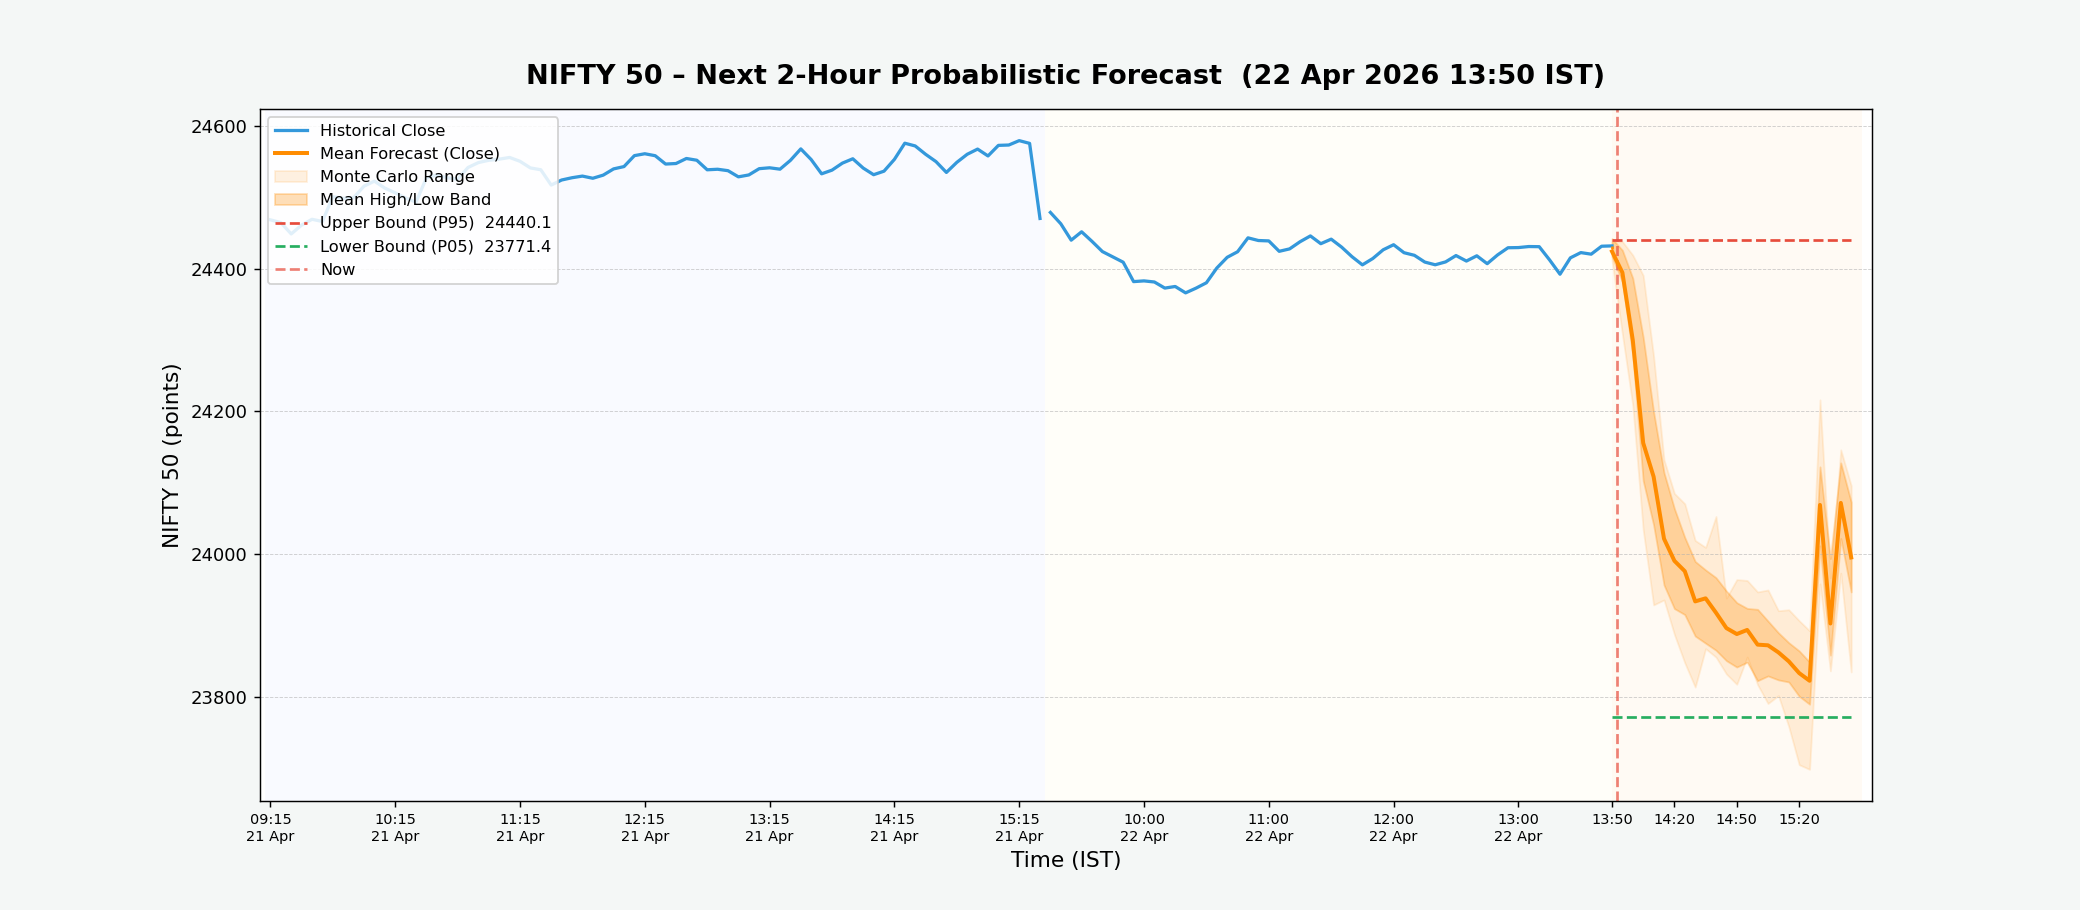
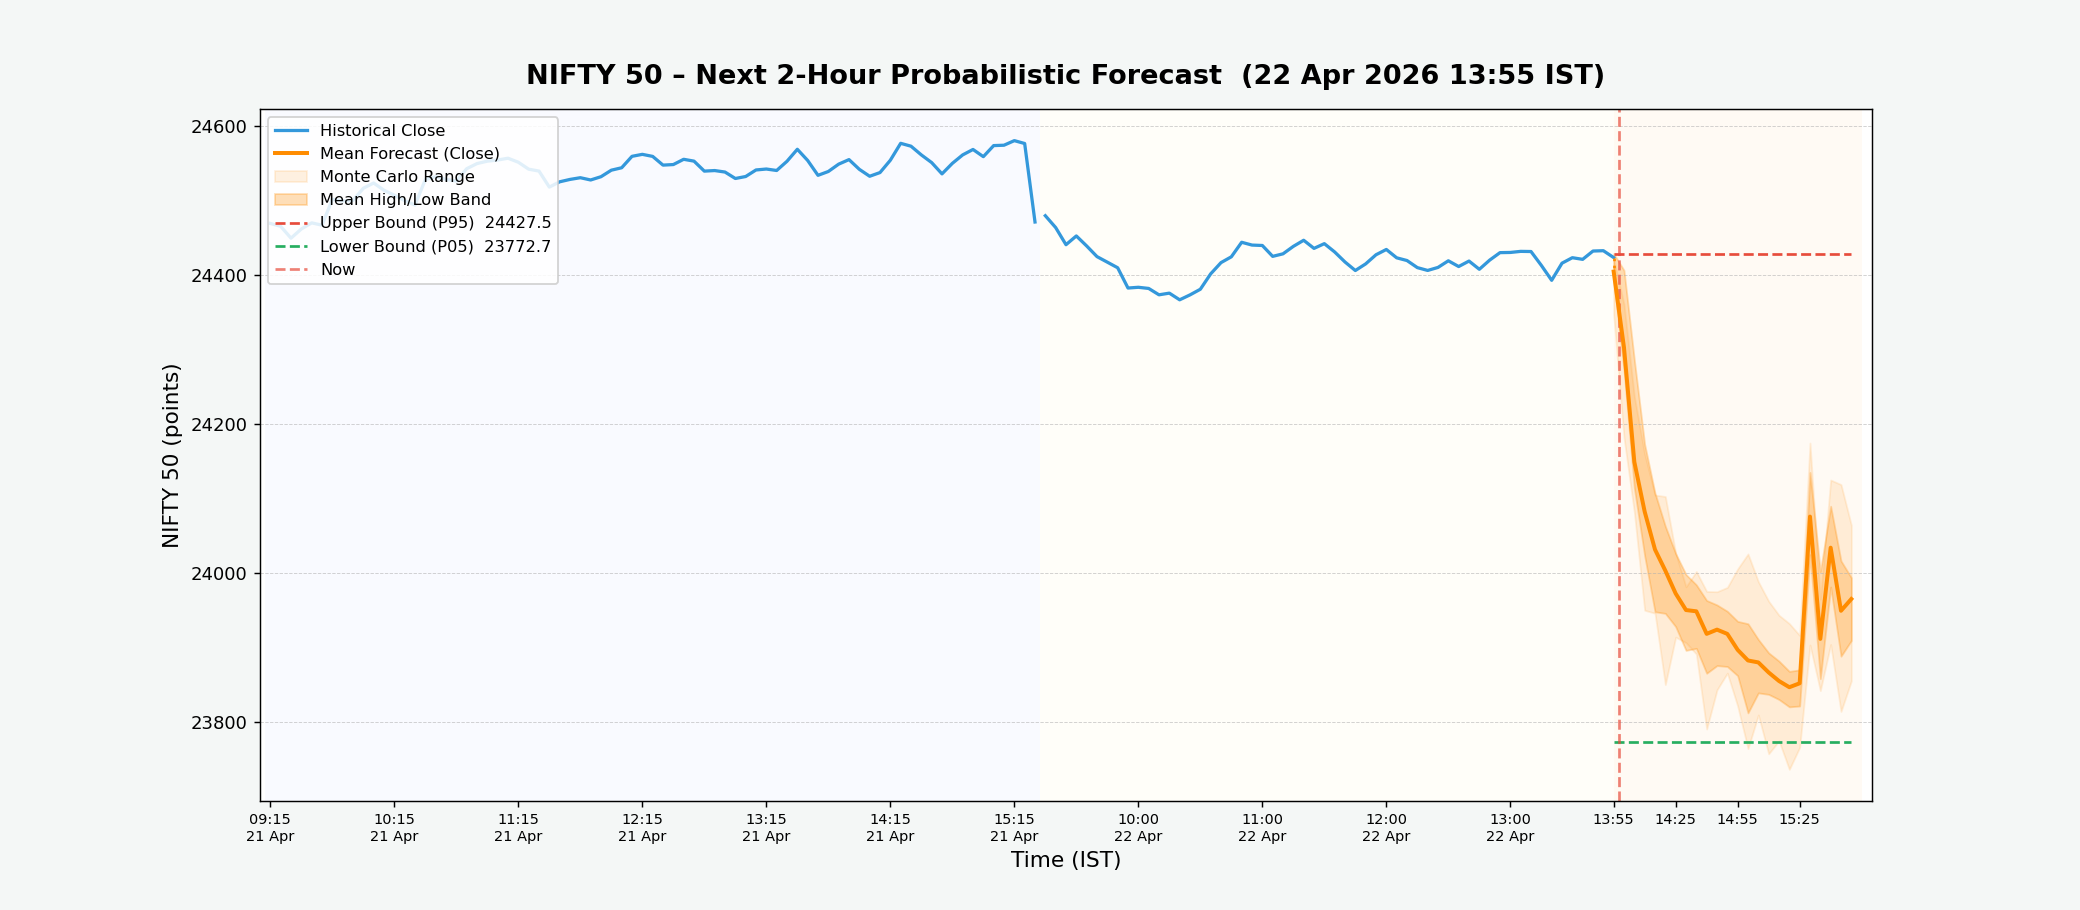
NIFTY forecast update – 2026-04-22 13:55 IST

diff --git a/index.html b/index.html
@@ -24,29 +24,29 @@
 
         <!-- Timestamp bar -->
         <div class="timestamp-bar">
-            <span>Last updated (IST):&nbsp;<strong id="update-time">2026-04-22 13:50:05</strong></span>
+            <span>Last updated (IST):&nbsp;<strong id="update-time">2026-04-22 13:55:04</strong></span>
         </div>
 
         <!-- Metric cards -->
         <div class="metrics-container">
             <div class="metric-card bullish">
                 <div class="metric-label">Bullish Bar Ratio</div>
-                <div class="metric-value" id="upside-prob">35.8%</div>
+                <div class="metric-value" id="upside-prob">40.0%</div>
                 <div class="metric-sub">Next 2h · close &gt; open %</div>
             </div>
             <div class="metric-card upper">
                 <div class="metric-label">Upper Bound</div>
-                <div class="metric-value" id="upper-bound">24440.1</div>
+                <div class="metric-value" id="upper-bound">24427.5</div>
                 <div class="metric-sub">Max predicted high</div>
             </div>
             <div class="metric-card lower">
                 <div class="metric-label">Lower Bound</div>
-                <div class="metric-value" id="lower-bound">23771.4</div>
+                <div class="metric-value" id="lower-bound">23772.7</div>
                 <div class="metric-sub">Min predicted low</div>
             </div>
             <div class="metric-card range">
                 <div class="metric-label">Predicted Range</div>
-                <div class="metric-value" id="pred-range">668.7 pts</div>
+                <div class="metric-value" id="pred-range">654.8 pts</div>
                 <div class="metric-sub">Upper − Lower spread</div>
             </div>
         </div>
